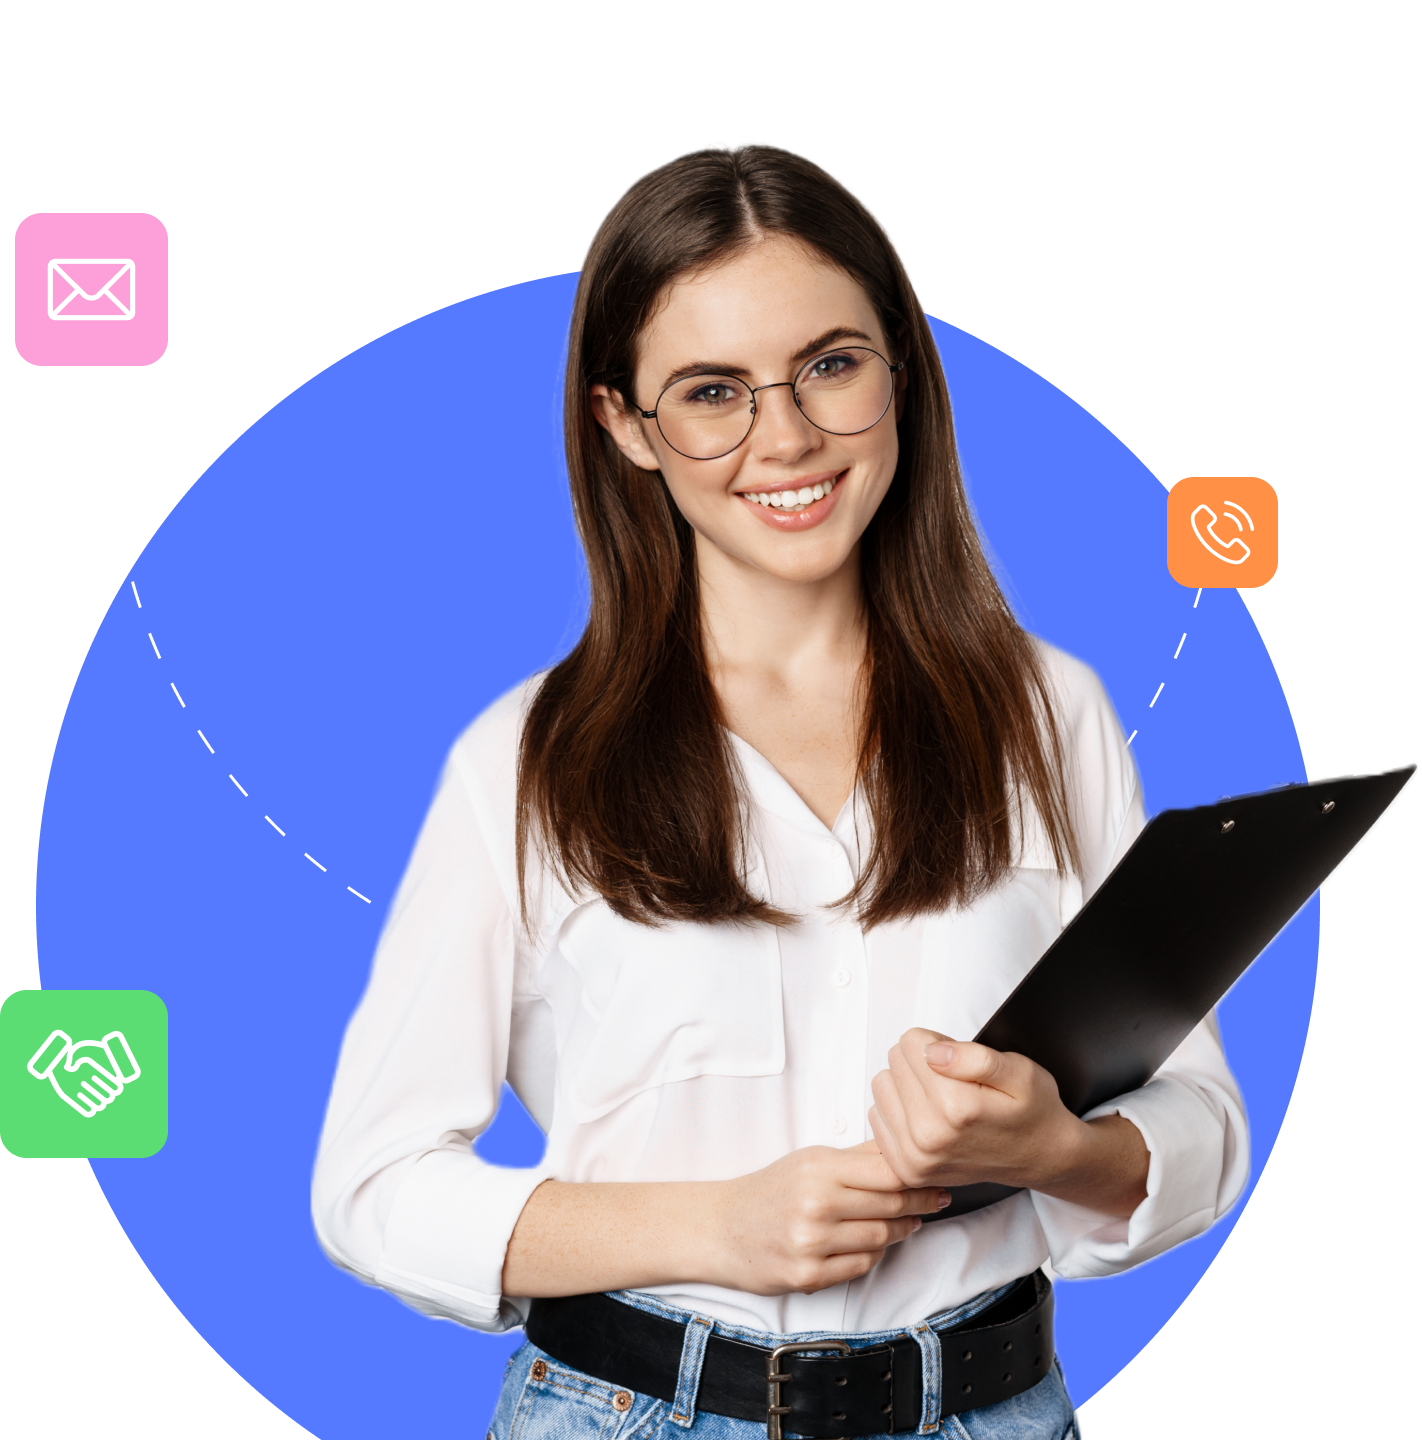
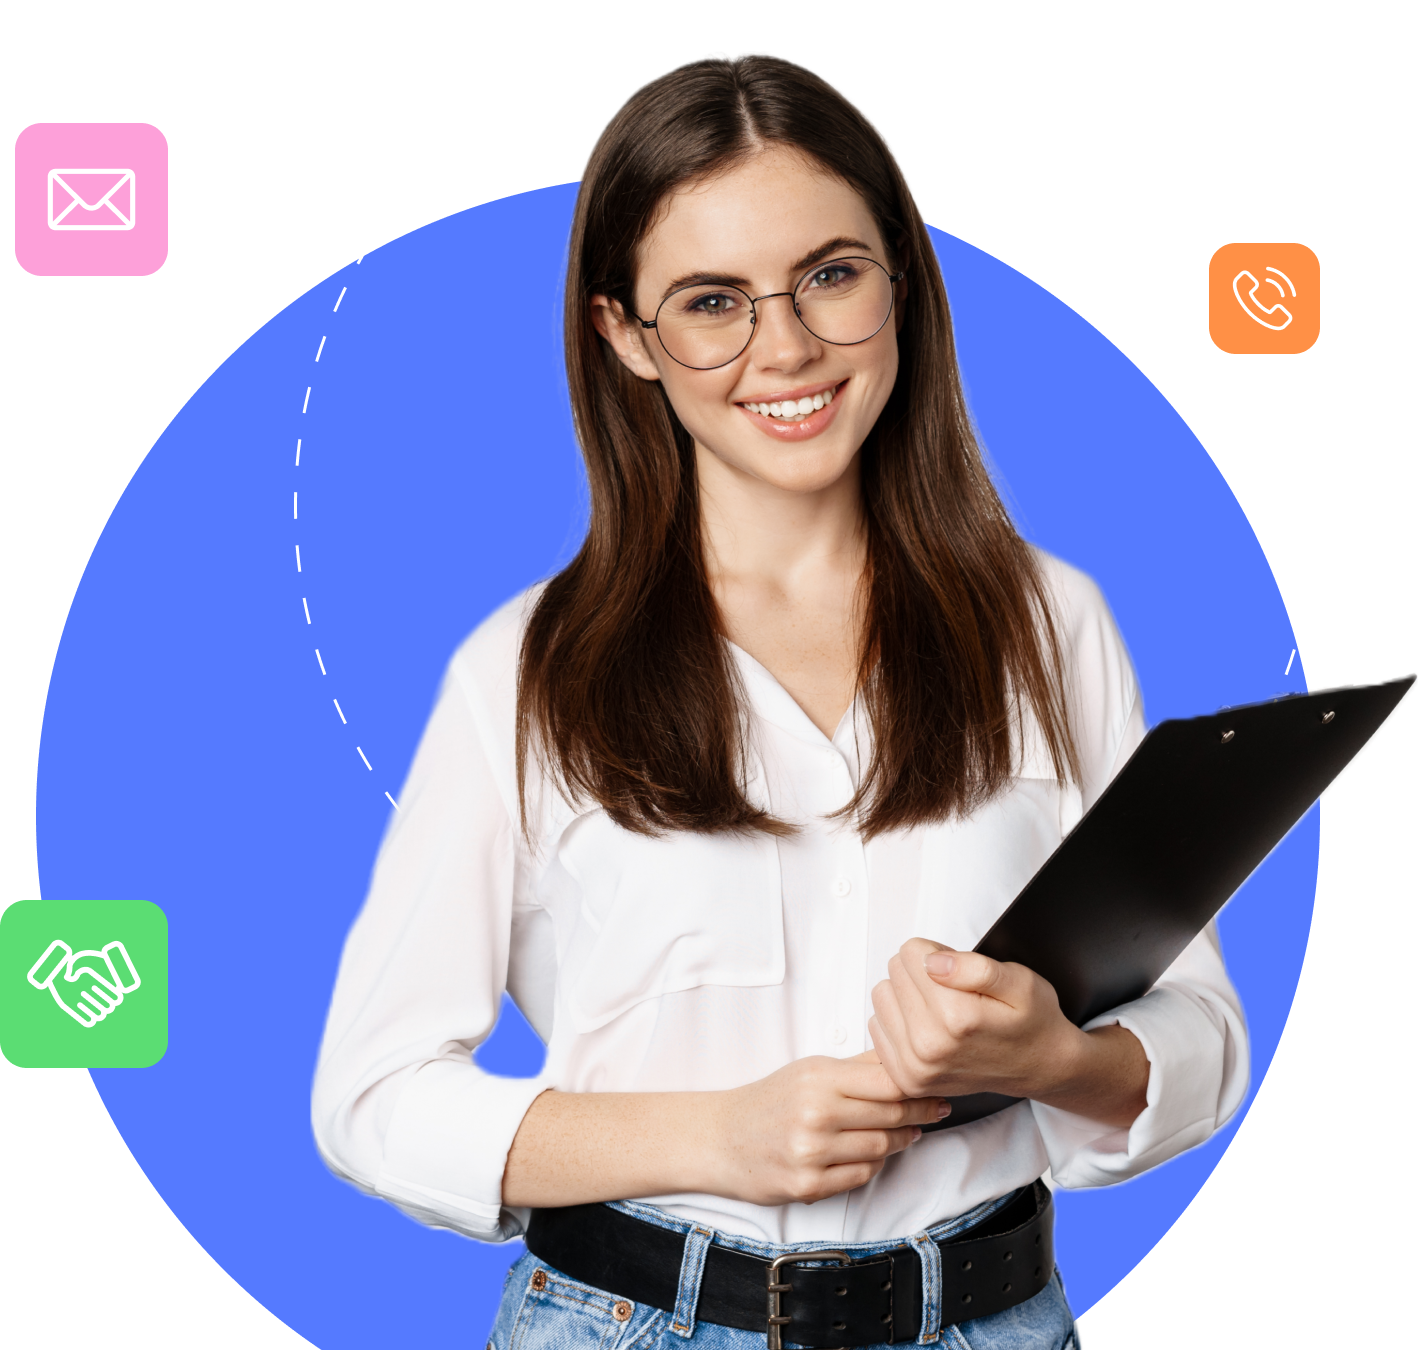
07.10 - 08.10 fixes

diff --git a/source/sass/blocks/_support.scss b/source/sass/blocks/_support.scss
@@ -1,6 +1,7 @@
 .support {
   background-color: hsla(224, 100%, 24%, 1);
-  padding: 150px 0px 184px 0px;
+  padding: 58px 0px 0px;
+  overflow: hidden;
   &__container {
     position: relative;
     max-width: calc(78.125rem + $containerPadding);
@@ -30,14 +31,18 @@
   }
   &__platforms-icon {
     max-width: 10.8rem;
+    transition: transform 500ms ease;
+    &:hover {
+      transform: scale(1.03);
+    }
   }
   &__image {
-    width: 100%;
-    position: absolute;
-    right: -191px;
-    top: -100px;
+    width: auto;
+    max-width: 483px;
     img, picture, source {
       width: 100%;
+      height: 100%;
+      max-height: inherit;
     }
   }
 }
@@ -56,16 +61,8 @@
       margin-inline: auto;
     }
     &__image {
+      max-width: 375px;
       margin-inline: auto;
-      position: relative;
-      top: 0 !important;
-      right: 0;
-      left: 50%;
-    margin-left: -40vw;
-    margin-right: -50vw;
-    max-width: 100vw;
-    right: 50%;
-    width: 100vw;
     }
     &__platforms {
       grid-gap: 25px;
@@ -80,6 +77,15 @@
   .support {
     &__image {
       top: -120px;
+    }
+  }
+}
+
+
+@include max-media(56.25em) {
+  .app {
+    &__container {
+      padding: 0px 24px 0px 0px;
     }
   }
 }

diff --git a/source/sass/blocks/_app.scss b/source/sass/blocks/_app.scss
@@ -1,13 +1,19 @@
 .app {
   background: hsla(232, 100%, 98%, 1);
   margin-bottom: clamp(80px, 9.375vw, 150px);
+  &__container {
+    padding: 0 clamp(10px,1.25vw,20px) 0 0;
+  }
   &__body {
     padding: clamp(100px, 9.375vw, 150px) 0;
-    max-width: calc(35rem + 35px);
     margin-inline: auto;
-    text-align: center;
+    display: flex;
+    align-items: center;
+    grid-gap: clamp(50px, 6.25vw, 100px);
   }
   &__info {
+    max-width: 465px;
+    text-align: left;
     p {
       font-size: clamp(24px, 1.75vw, 28px);
       font-weight: 700;
@@ -15,6 +21,24 @@
       span {
         color: var(--clr-dark);
       }
+    }
+  }
+}
+
+@include max-media(46.875em) {
+  .app {
+    &__body {
+      display: flex;
+      flex-direction: column-reverse;
+      grid-gap: 2.5rem;
+    }
+    &__info {
+      padding-left: 24px;
+      text-align: center;
+    }
+    &__image {
+      max-width: 34.375rem;
+      margin-right: auto;
     }
   }
 }

diff --git a/source/_home.html b/source/_home.html
@@ -19,15 +19,12 @@
           </button>
         </div>
       </div>
-      <div class="home__image" id="home__image">
-        <picture class="image-first">
-          <source type='image/webp' srcset='img/home/Hero image 1.webp'>
-          <img src='img/home/Hero image 1.png' alt='home-mob'>
+      <div class="home__image-wrapper">
+        <picture class="home__image" id="home__image">
+          <source type='image/webp' srcset='img/home/home-image.webp'>
+          <img src='img/home/home-image.png' alt='home-mob'>
         </picture>
-        <picture class="image-second">
-          <source type='image/webp' srcset='img/home/Hero image 2.webp'>
-          <img src='img/home/Hero image 2.png' alt='home-mob'>
-        </picture>
+
       </div>
       <div class="home__image-mob">
         <picture>

diff --git a/source/_app.html b/source/_app.html
@@ -1,7 +1,13 @@
 <section class="app" id="app">
   <div class="app__container _container">
     <div class="app__body">
-      <div class="app__info" data-aos="fade-up" data-aos-duration="700" data-aos-offset="200">
+      <div class="app__image" data-aos="fade-right" data-aos-duration="700" data-aos-offset="100">
+        <picture>
+          <source type='image/webp' srcset='img/app/app-iphone-image.webp'>
+          <img src='img/app/app-iphone-image.png' alt='app-image'>
+        </picture>
+      </div>
+      <div class="app__info" data-aos="fade-up" data-aos-duration="700" data-aos-offset="100">
         <p>
           <span>Our app</span> dolor sit amet, consectetur adipiscing elit, sed do eiusmod tempor incididunt ut labore et dolore magna aliqua.
         </p>

diff --git a/source/sass/blocks/_home.scss b/source/sass/blocks/_home.scss
@@ -6,13 +6,11 @@
   &__body {
     position: relative;
     z-index: 50;
-
     padding-bottom: .1rem;
-
   }
   position: relative;
   @include max-media(37.5em) {
-    padding: 104px 0 80px 0;
+    padding: 104px 0 20px 0;
   }
   &__img {
     transition: all 500ms ease;
@@ -41,7 +39,7 @@
     align-items: center;
     grid-gap: clamp(1rem, 4vw, 64px);
     @include max-media(37.5em) {
-      grid-gap: 72px;
+      grid-gap: 3rem;
     }
   }
   &__content {
@@ -65,6 +63,11 @@
     @include max-media(37.5em) {
       max-width: 20.4375rem;
     }
+  }
+  &__image-wrapper {
+    position: relative;
+    z-index: -1;
+    transition: all 500ms ease;
   }
   &__image {
     max-width: 53.75rem;

diff --git a/source/sass/blocks/_about.scss b/source/sass/blocks/_about.scss
@@ -1,9 +1,10 @@
 .about {
+  --bgAbout: #F4F5FB;
   padding-bottom: clamp(80px, 9.375vw, 150px);
   margin-top: 15rem;
   &__container {
     border-radius: 1.25rem;
-    background-color: var(--clr-beige);
+    background-color: var(--bgAbout);
       @include max-media(50.25em) {
         max-width: calc(37.5rem + $containerPadding) !important;
       }
@@ -12,6 +13,14 @@
     padding: clamp(80px, 6.25vw, 100px) clamp(10px, 5vw, 80px);
     @include max-media(37.5em) {
       padding: 80px 0px;
+    }
+  }
+  &__download-btn {
+    margin-top: 80px;
+    display: grid;
+    justify-content: center;
+    @include max-media(550px) {
+      margin-top: 40px;
     }
   }
 }

diff --git a/source/js/common.js b/source/js/common.js
@@ -1,7 +1,8 @@
 AOS.init();
 const burger = document.querySelector('.burger')
 const mobMenu = document.querySelector('.m-menu')
-const body = document.getElementById('body');
+const body = document.getElementById('body'),
+      homeImage = document.querySelector('.home__image-wrapper');
 
 burger.addEventListener('click', () => {
   burger.classList.toggle('_active-burger')
@@ -22,7 +23,6 @@ let stepsSlider = new Swiper(".steps__slider", {
     delay: 2000
   }
 });
-
 
 const menuMobLinks = document.querySelectorAll('.menu-nav__link');
 

diff --git a/source/_support.html b/source/_support.html
@@ -22,8 +22,8 @@
         </div>
         <div class="support__image" data-aos="fade-up" data-aos-duration="500" data-aos-delay="300">
           <picture>
-            <source type='image/webp' srcset='img/support/support-image.webp'>
-            <img src='img/support/support-image.png' alt='support-image'>
+            <source type='image/webp' srcset='img/support/platform-image.webp'>
+            <img src='img/support/platform-image.png' alt='support-image'>
           </picture>
         </div>
       </div>

diff --git a/source/js/_parallax.js b/source/js/_parallax.js
@@ -1,0 +1,10 @@
+window.addEventListener('scroll', function() {
+  let scrollPosition = window.pageYOffset;
+  let homeImagePosition = homeImage.clientHeight;
+  console.log(homeImagePosition);
+  if (scrollPosition > homeImagePosition / 1.4) {
+    homeImage.style.transform = 'translateY(0)'
+  } else {
+    homeImage.style.transform = 'translateY(' + scrollPosition * .5 + 'px)';
+  }
+});

diff --git a/source/_contact.html b/source/_contact.html
@@ -45,7 +45,7 @@
                   </div>
                 </li>
                 <li class="form-inputs__item">
-                  <button class="form__button _buttonPink"  data-aos="fade-up" data-aos-duration="300" data-aos-delay="100">
+                  <button class="form__button _buttonPink">
                     Get in touch
                   </button>
                 </li>

diff --git a/source/sass/blocks/_steps.scss b/source/sass/blocks/_steps.scss
@@ -1,4 +1,5 @@
 .steps {
+  background-color: var(--clr-white);
   &__image {
     // [data-aos=fade-up] {
     //   transform: translate(-50%, -40%) !important;
@@ -170,6 +171,9 @@
     &__inner {
       display: none !important;
     }
+  }
+  .steps__slider-item .steps__slider-image {
+    transform: translate(0, 0) !important;
   }
 }
 

diff --git a/source/_about.html b/source/_about.html
@@ -81,6 +81,9 @@
           </li>
         </ul>
       </div>
+      <div class="about__download-btn" data-aos="fade-up" data-aos-duration="500" data-aos-offset="100">
+        <button class="about__btn _buttonPink">Download app</button>
+      </div>
     </div>
   </div>
 </section>
